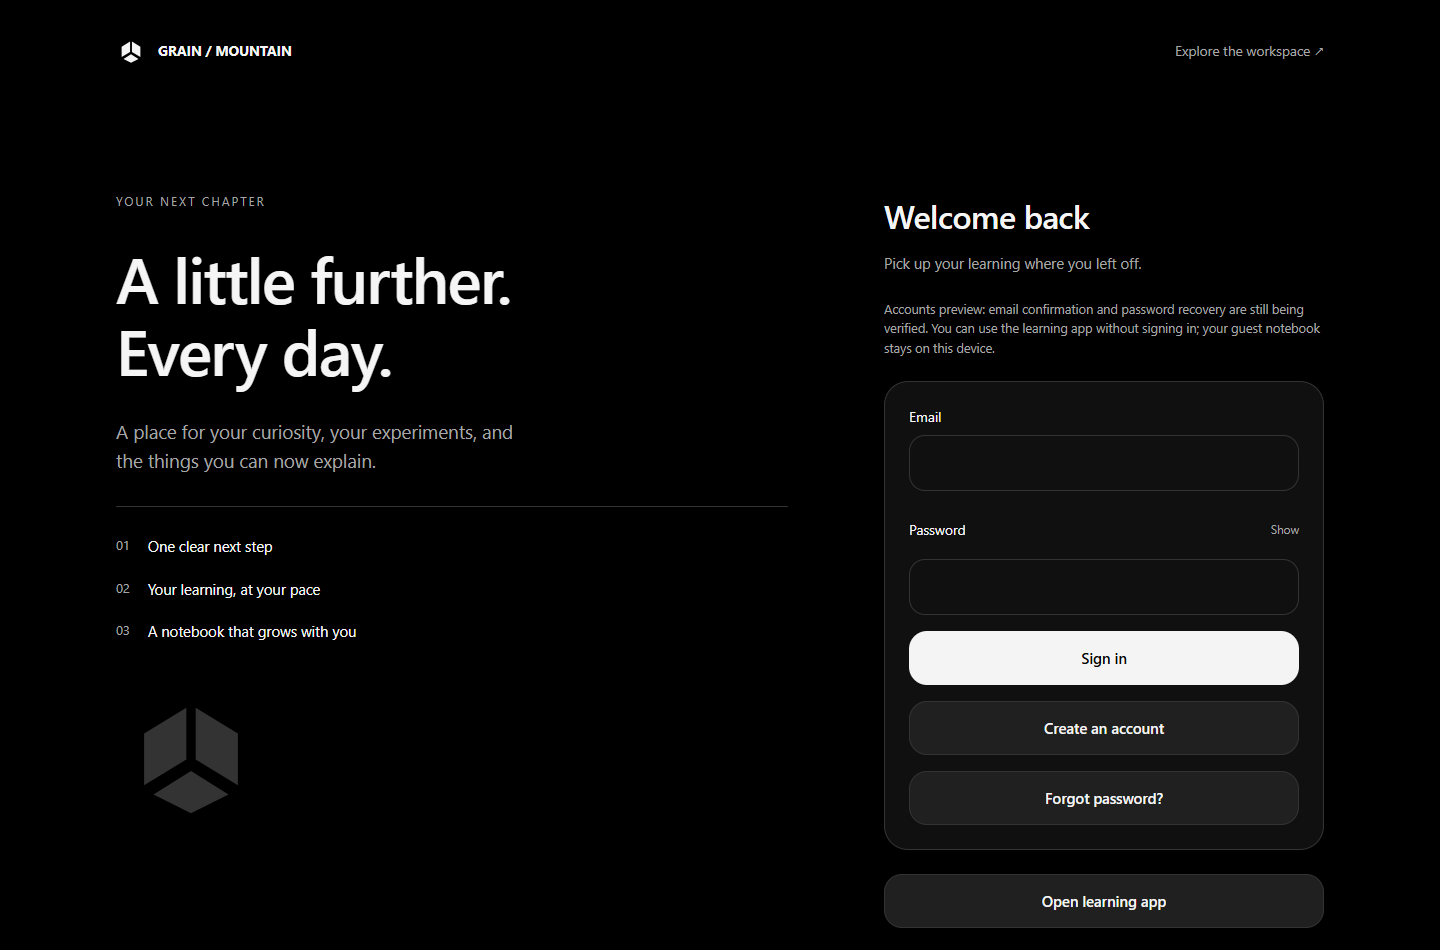
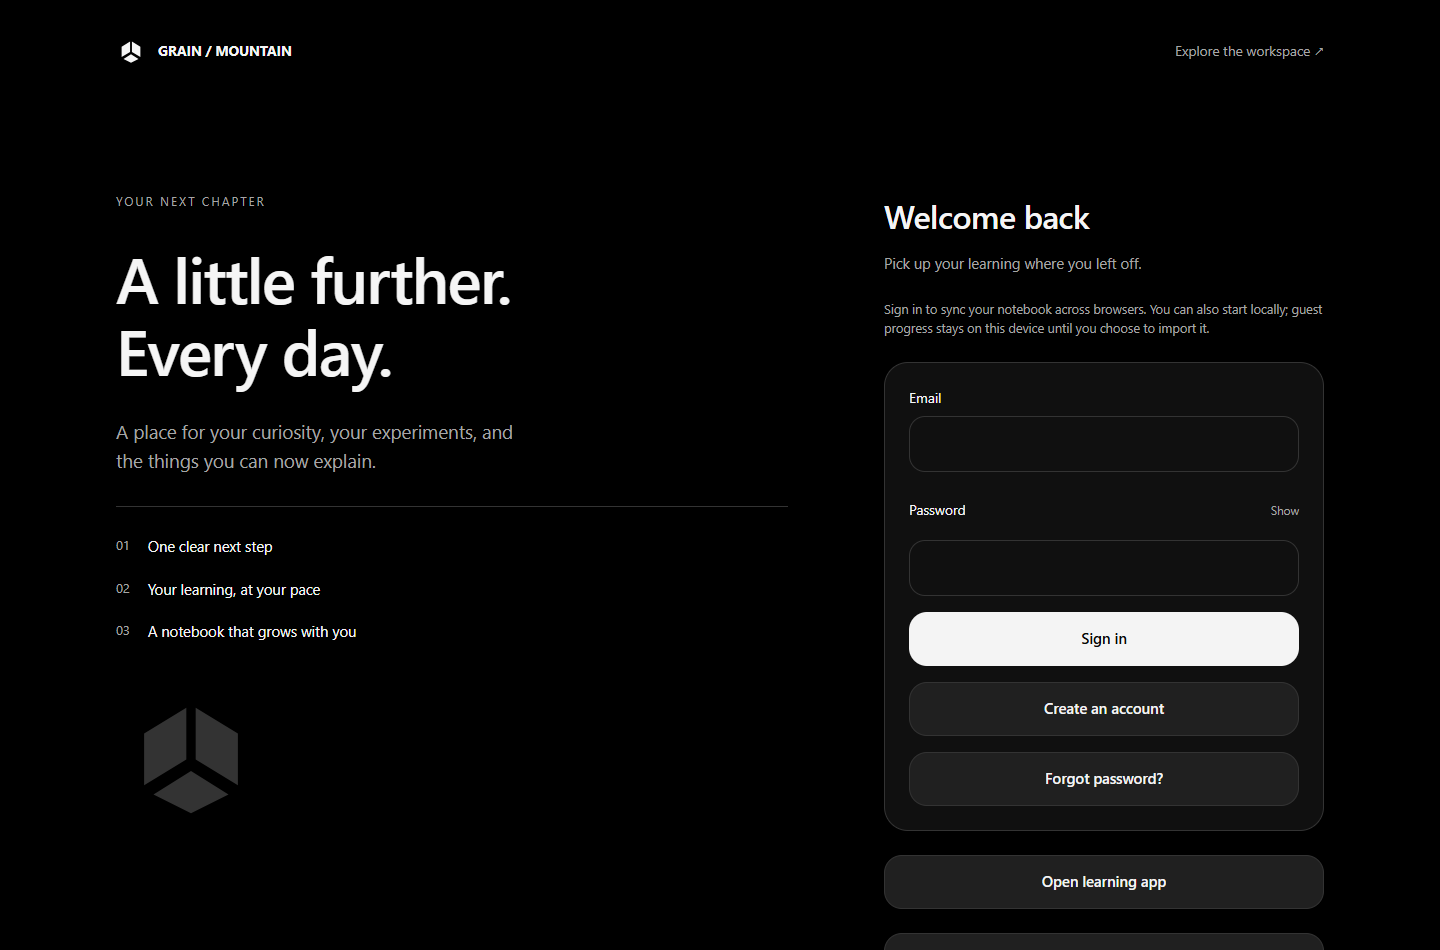
docs(validation): record verified live account release

diff --git a/learning-companion/VALIDATION.md b/learning-companion/VALIDATION.md
@@ -109,3 +109,6 @@ Confirmed test account signed in through two independent API clients. Shared sna
 
 Recovery completed through the public website: hosted Auth recorded successful PUT /user, and the original test password was subsequently rejected with invalid_credentials. Gmail delivery was confirmed by the owner receiving the confirmation email. Web account functionality is verified; downloadable native app sync is not claimed. The test credentials file remains ignored; old password is no longer valid.
 
+
+Final public product checks passed after release: /, /account, /download and /today at 390/1440px, guest entry, no overflow/runtime exceptions; live Auth access checks passed. Public account screenshot reviewed with the preview notice removed. Functional account release a29ed51 reached Vercel Ready; subsequent Git-ignore-only release does not change app behavior.
+
